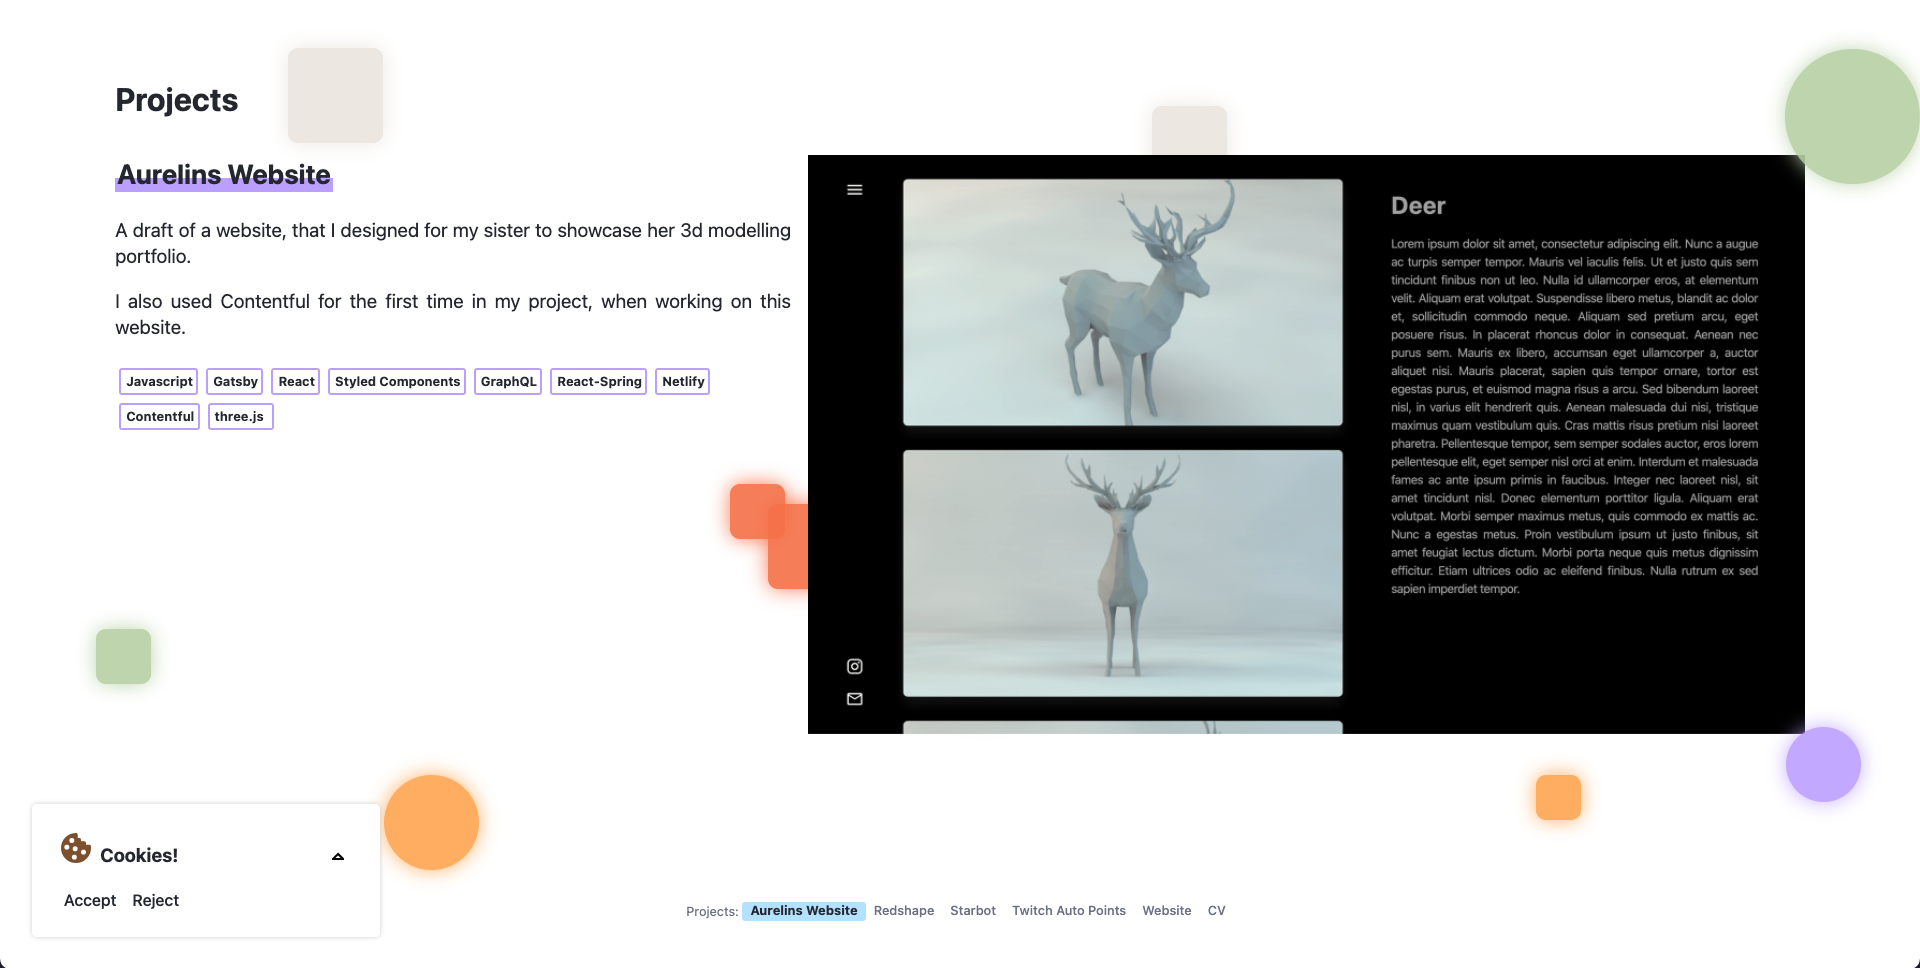
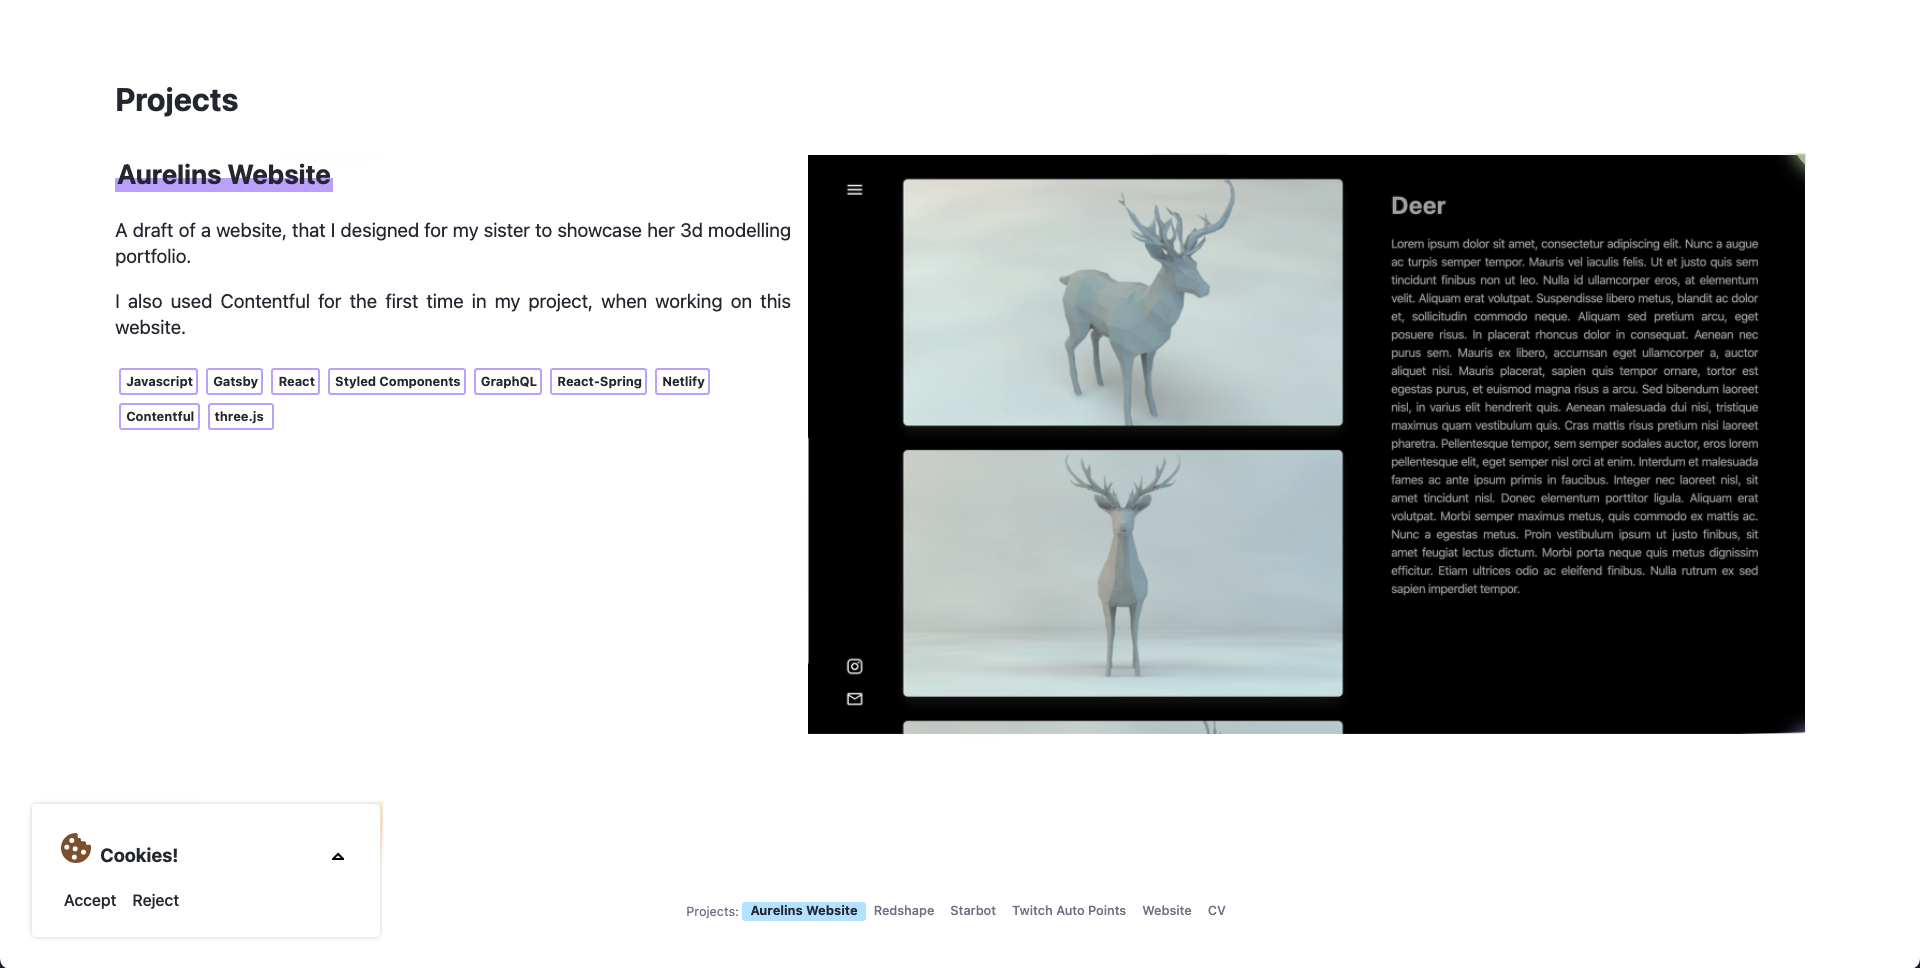
fix: minor fixes

diff --git a/src/templates/projects.jsx b/src/templates/projects.jsx
@@ -15,6 +15,8 @@ import { ImageCarousel } from '../components/common/ImageCarousel';
 import { Flex } from '../components/common/Flex';
 import { ImagePreviewContextProvider } from '../context/ImagePreviewContextProvider';
 import { BurgerMenu } from '../components/common/BurgerMenu';
+import { slugToAnchor } from '../utils';
+import { useAnchorTracker } from '../hooks/useAnchorTracker';
 
 const PageLayout = styled.div`
   display: grid;
@@ -70,6 +72,7 @@ const ProjectsPage = (props) => {
   const post = props.data.markdownRemark;
   const allPosts = props.data.allMarkdownRemark.nodes;
   const anchor = slugToAnchor(post.fields.slug);
+  const activeAnchor = useAnchorTracker(['#title']);
 
   const slugs = allPosts.map((node) => node.fields.slug);
 
@@ -95,7 +98,7 @@ const ProjectsPage = (props) => {
         <ImagePreviewContextProvider>
           <PageWrapper>
             <Navbar withBurgerMenu margined>
-              <ButtonBack href={`/${anchor}`} value="Main page" />
+              <ButtonBack withColorfulBackground={activeAnchor === '#title'} href={`/${anchor}`} value="Main page" />
             </Navbar>
             <BurgerMenu />
             <PageLayout>
@@ -103,7 +106,7 @@ const ProjectsPage = (props) => {
                 alignItems="center"
                 justifyContent="space-between"
               >
-                <div>
+                <div id="title">
                   <Subheading>{post.frontmatter.title}</Subheading>
                 </div>
                 <ProjectReferenceContainer

diff --git a/src/components/common/buttons/ButtonBack.jsx b/src/components/common/buttons/ButtonBack.jsx
@@ -22,17 +22,17 @@ const LinkButton = styled(Link)`
 `;
 
 const BackButtonContainer = styled.div`
-  background: ${(props) => props.theme.marker || MARKERS.blue};
+  background: ${(props) => props.withColorfulBackground ? (props.theme.marker || MARKERS.blue) : 'transparent'};
   border-radius: 3px;
   padding: 0.1rem 0.6rem 0.1rem 0rem;
 
   &:hover {
-    background: ${(props) => props.theme.marker || MARKERS.blue}
+    background: ${(props) => props.withColorfulBackground ? (props.theme.marker || MARKERS.blue) : 'transparent'};
   }
 `;
 
-const ButtonBack = ({ href, value }) => (
-  <BackButtonContainer>
+const ButtonBack = ({ href, value, withColorfulBackground }) => (
+  <BackButtonContainer withColorfulBackground={withColorfulBackground}>
     <LinkButton to={href}>
       <ArrowLeftIcon /> {value}
     </LinkButton>

diff --git a/src/components/common/ImageCarousel.jsx b/src/components/common/ImageCarousel.jsx
@@ -7,7 +7,7 @@ import { LazyImage } from './LazyImage';
 const CarouselContainer = styled.div`
   padding-top: ${(props) => (props.isPreview ? '0' : '1.5rem')};
 
-  @media (max-width: 750px) {
+  @media (max-width: 1000px) {
     padding-top: 0;
   }
 `;
@@ -48,7 +48,7 @@ const ImageSlide = styled(LazyImage)`
   cursor: pointer;
 `;
 
-const ImageCarousel = ({ images }) => {
+const ImageCarousel = ({ className, images }) => {
   const { showImagePreview } = useImagePreview();
   const containerRef = useRef();
 
@@ -74,7 +74,7 @@ const ImageCarousel = ({ images }) => {
 
   return (
     <>
-      <CarouselContainer ref={containerRef}>
+      <CarouselContainer className={className} ref={containerRef}>
         <StyledCarousel
           showStatus={false}
           showIndicators={false}

diff --git a/src/components/index/Project.jsx b/src/components/index/Project.jsx
@@ -29,6 +29,7 @@ const ProjectInfo = styled.div`
 
 const InfoWrapper = styled(animated.div)`
   width: 100%;
+  padding-right: 1rem;
 
   @media (min-width: 1001px) {
     width: 40%;
@@ -38,7 +39,7 @@ const InfoWrapper = styled(animated.div)`
 `;
 
 const ImageWrapper = styled(animated.div)`
-  width: 59%;
+  width: 58%;
   gap: 0px;
 
   @media (max-width: 1200px) {
@@ -64,6 +65,9 @@ const ProjectContent = styled(MarkdownContent)`
   @media (max-width: 1000px) {
     margin-top: 2.5rem;
   }
+
+  border-left: 5px solid ${(props) => props.theme.marker};
+  padding-left: 1rem;
 `;
 
 const Project = ({ node, index }) => {

diff --git a/src/components/index/AboutSection.jsx b/src/components/index/AboutSection.jsx
@@ -28,6 +28,10 @@ const ContentPanel = styled(Flex)`
     width: 800px;
   }
 
+  @media (min-width: 1920px) {
+    width: 1000px;
+  }
+
   div {
     line-height: 1.7;
   }
@@ -109,7 +113,7 @@ const AboutSection = ({ children }) => {
       </animated.div>
       <animated.div style={springAnimation}>
         {children}
-        <SocialButtons />
+        <SocialButtons size={26} />
       </animated.div>
     </ContentPanel>
   );

diff --git a/src/components/project/FixedImageSet.jsx b/src/components/project/FixedImageSet.jsx
@@ -62,7 +62,7 @@ const FixedImageSet = ({ images, containerRef }) => {
   const windowHeight = height || window.innerHeight;
   // 6%
   const padding = 0.06 * windowWidth;
-  const imageAreaWidth = (windowWidth - padding * 2) * 0.59;
+  const imageAreaWidth = (windowWidth - padding * 2) * 0.58;
   const marginTop = windowHeight * 0.16;
   const imageWidthPercent = Number(
     (imageAreaWidth / windowWidth) * 100

diff --git a/src/templates/cv.jsx b/src/templates/cv.jsx
@@ -126,7 +126,7 @@ const CVPage = ({ data }) => {
       />
       <PageWrapper>
         <Navbar margined gap="1rem">
-          <ButtonBack background={MARKERS.blue} href="/" value="Main page" />
+          <ButtonBack withColorfulBackground={activeAnchor === '#intro-section'} background={MARKERS.blue} href="/" value="Main page" />
         </Navbar>
         <BurgerMenu />
         <div>
